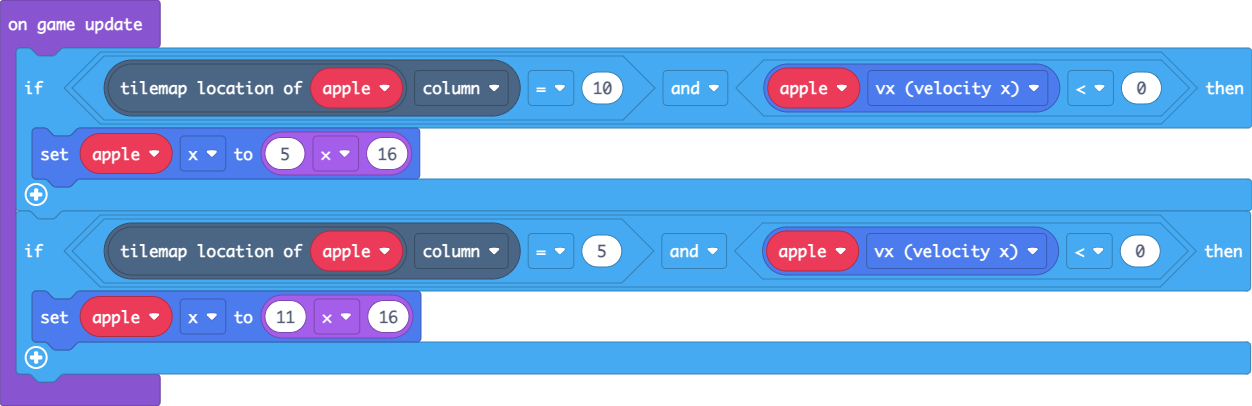
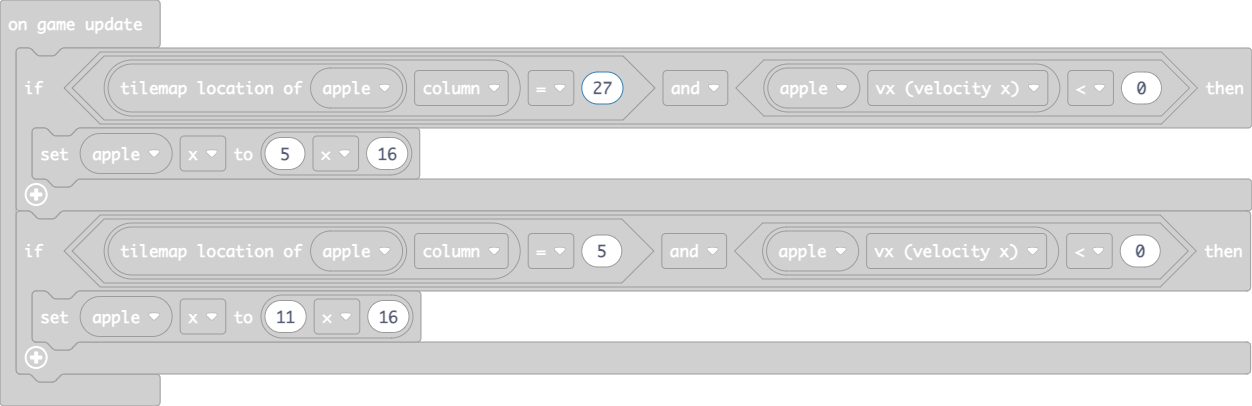
new tile map

diff --git a/tilemap.g.ts b/tilemap.g.ts
@@ -44,7 +44,7 @@ namespace myTiles {
 . . . . . . . . . . . . . . . . 
 `, [myTiles.transparency16], TileScale.Sixteen);
             case "level2":
-            case "level2":return tiles.createTilemap(hex`200010000000000000000000000000000000000000000000000000000000000000000000000000000000000000000000000000000000000000000000000000000000000000000000000000000000000000000000000000000000000000000000000000000000000000000000000000000000000000000000000000000000000000000000000000000000000000000000000000000000000000000000000000000000000000000000000000000000000000000000000000000000000000000000000000000000000000000000000000000000000000000000000000000000000000000000000000000000000000000000000000000000000000000000000000000000000000000000000000000000000000000000000000000000000000000000000000000000000000000000000000000000000000000000000000000000000000000000000000000000000000000000000000000000000000000000000000000000000000000000000000000000000000000000000000000000000000000000000000000000000000010100000000000000000000000000000000000000000000000000000000000101010101010000000000000000000000000000000000000000000000000001010101010101010101000000000000000000000000000000000000000101010101010101010101010101010100000000000000000000000000000000`, img`
+            case "level2":return tiles.createTilemap(hex`200010000000000000000000000000000000000000000000000000000000000000000000000000000000000000000000000000000000000000000000000000000000000000000000000000000000000000000000000000000000000000000000000000000000000000000000000000000000000000000000000000000000000000000000000000000000000000000000000000000000000000000000000000000000000000000000000000000000000000000000000000000000000000000000000000000000000000000000000000000000000000000000000000000000000000000000000000000000000000000000000000000000000000000000000000000000000000000000000000000000000000000000000000000000000000000000000000000000000000000000000000000000000000000000000000000000000000000000000000000000000000000000000000000000000000000000000000000000000000000000000000000000000000000000000000000000000000000000000000000000000000010100000000000000000000000000000000000000010100000000000000000101010101010000000000000000000000000101010101010100000000000001010101010101010101000000000000010101010101010101010100000101010101010101010101010101010101010101010101010101010101010101`, img`
 ................................
 ................................
 ................................

diff --git a/main.ts b/main.ts
@@ -136,7 +136,7 @@ game.onUpdate(function () {
     }
 })
 game.onUpdate(function () {
-    if (apple.tilemapLocation().column == 10 && apple.vx < 0) {
+    if (apple.tilemapLocation().column == 27 && apple.vx < 0) {
         apple.x = 5 * 16
     }
     if (apple.tilemapLocation().column == 5 && apple.vx < 0) {
